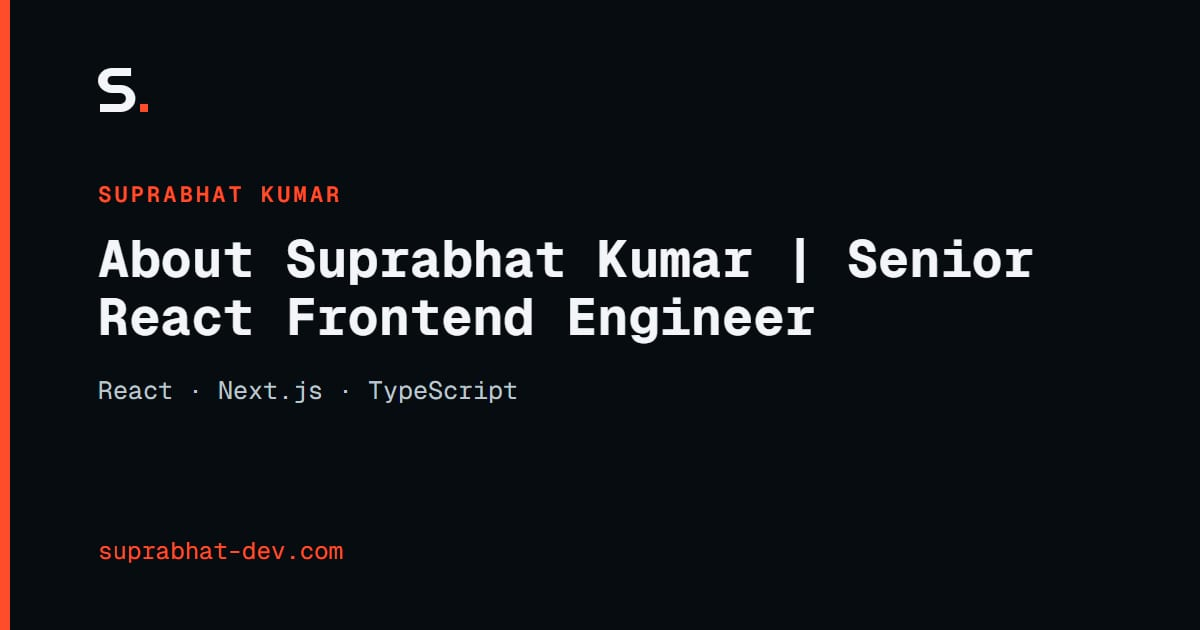
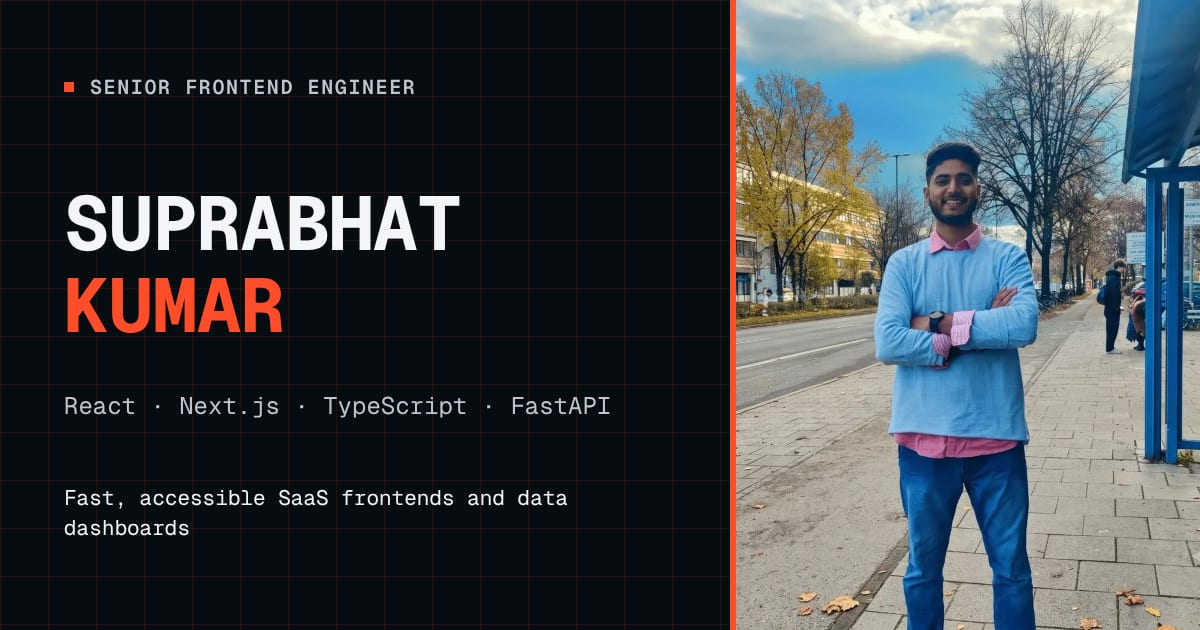
feat(seo): one headshot for the name across schema, sitemap and About share image (#80)
Person.image is an ImageObject at a stable URL, About names it primaryImageOfPage, sitemap lists the headshot, About share image shows the portrait, alternateName includes suprabhat02, About lastmod matches ProfilePage dateModified, case studies link their author.

diff --git a/tests/seo.spec.ts b/tests/seo.spec.ts
@@ -5,6 +5,7 @@ import {
   getProfile,
   profile,
   profileSearchOnlyNames,
+  profilePageModified,
   profileStack,
 } from '../src/data/profile';
 import { reactSmartCopy, reactInpChunker } from '../src/data/openSource';
@@ -79,6 +80,7 @@ test('entity graphs use supported types, unique definitions and visible identity
     'PostalAddress',
     'Organization',
     'ContactPoint',
+    'ImageObject',
     'WebSite',
     'WebPage',
     'ProfilePage',
@@ -124,13 +126,27 @@ test('entity graphs use supported types, unique definitions and visible identity
       expect(people[0]).toMatchObject({
         '@id': personId,
         name: profile.name,
-        alternateName: ['Suprabhat', 'Shubh', 'Suprabhat Karn'],
+        alternateName: ['Suprabhat', 'Shubh', 'Suprabhat Karn', 'suprabhat02'],
         jobTitle: getProfile(locale).title,
         sameAs: profile.social.map((social) => social.href),
       });
       await expect(
         page.getByText(getProfile(locale).title, { exact: false }).first(),
       ).toBeVisible();
+      // One face for the name: the Person image is a served file, and the
+      // About page names that same image as its primary image.
+      const portrait = people[0]?.image as Record<string, string>;
+      expect(portrait['@id']).toBe('https://suprabhat-dev.com/#portrait');
+      const portraitPath = new URL(portrait.url).pathname;
+      expect((await page.request.get(portraitPath)).ok()).toBe(true);
+      if (route === '/about/') {
+        const profilePage = nodes.find(
+          (node) => node['@type'] === 'ProfilePage',
+        );
+        expect(profilePage?.primaryImageOfPage).toEqual({
+          '@id': portrait['@id'],
+        });
+      }
       if (route === '/' || route === '/about/') {
         expect(people[0]?.knowsAbout).toEqual(profileStack);
         for (const technology of profileStack)
@@ -1018,6 +1034,25 @@ const isVerificationFile = (path: string) =>
   /^(?:yandex_[0-9a-f]+|google[0-9a-f]+|BingSiteAuth)\.(?:html|xml)$/.test(
     path,
   );
+
+test('About sitemap entries carry the headshot and the ProfilePage date', async () => {
+  const sitemap = await readFile(
+    new URL('../dist/sitemap-0.xml', import.meta.url),
+    'utf-8',
+  );
+  const headshot = `https://suprabhat-dev.com${profile.portrait.src}`;
+  for (const prefix of ['', '/es', '/ar']) {
+    const entry = sitemap.match(
+      new RegExp(
+        `<url><loc>https://suprabhat-dev\\.com${prefix}/about/</loc>.*?</url>`,
+      ),
+    )?.[0];
+    expect(entry, prefix).toContain(
+      `<lastmod>${profilePageModified}</lastmod>`,
+    );
+    expect(entry, prefix).toContain(`<image:loc>${headshot}</image:loc>`);
+  }
+});
 
 test('indexable HTML pages have unique titles and canonical sitemap entries', async () => {
   const dist = new URL('../dist/', import.meta.url);

diff --git a/src/data/profile.ts b/src/data/profile.ts
@@ -84,10 +84,13 @@ export const profile: Profile = {
   pronouns: 'he/him',
   timezone: 'IST (UTC+5:30)',
   portrait: {
-    src: '/assets/images/suprabhat.webp',
+    // Square head-and-shoulders crop of the About portrait, at a stable,
+    // descriptive URL: the Person schema image and the About page's primary
+    // image. Not rendered on the page, so it costs nothing in Lighthouse.
+    src: '/assets/images/suprabhat-kumar-headshot.webp',
     width: 640,
     height: 640,
-    alt: 'Portrait of Suprabhat Kumar, Software Engineer',
+    alt: 'Portrait of Suprabhat Kumar, Senior Front-End Engineer',
   },
   social: [
     { label: 'X', href: X_PROFILE_URL, external: true },
@@ -215,25 +218,31 @@ export const profileVisibleAliases = [
   profile.nickname,
 ].filter((name): name is string => Boolean(name));
 
-/** Person schema alternateName: visible aliases plus search-only names. */
+/**
+ * The username shared across developer profiles, read from the profile URLs
+ * themselves so it can never drift from the links that are published.
+ */
+export const profileHandle = 'suprabhat02';
+
+/**
+ * Person schema alternateName: visible aliases, search-only names, and the
+ * public handle (Google's ProfilePage docs list the handle as alternateName).
+ */
 export const profileAlternateNames = [
   ...profileVisibleAliases,
   ...profileSearchOnlyNames,
+  profileHandle,
 ];
 
 /**
  * Day the About page content last changed (YYYY-MM-DD, India time). Feeds the
  * ProfilePage `dateModified`. Update it when the About page changes; never
  * derive it from the build, which would claim a change on every deploy.
- * 2026-11-20 is the day the redesigned About page was released.
+ * The sitemap's About lastmod reads this too, so the two cannot disagree.
+ * 2026-11-24: headshot image, handle in alternateName, portrait alt text.
  */
-export const profilePageModified = '2026-11-20';
+export const profilePageModified = '2026-11-24';
 
-/**
- * The username shared across developer profiles, read from the profile URLs
- * themselves so it can never drift from the links that are published.
- */
-export const profileHandle = 'suprabhat02';
 export const profileHandlePlatforms = profile.social
   .filter(({ href }) => new RegExp(`[/~]${profileHandle}/?$`).test(href))
   .map(({ label }) => label);
